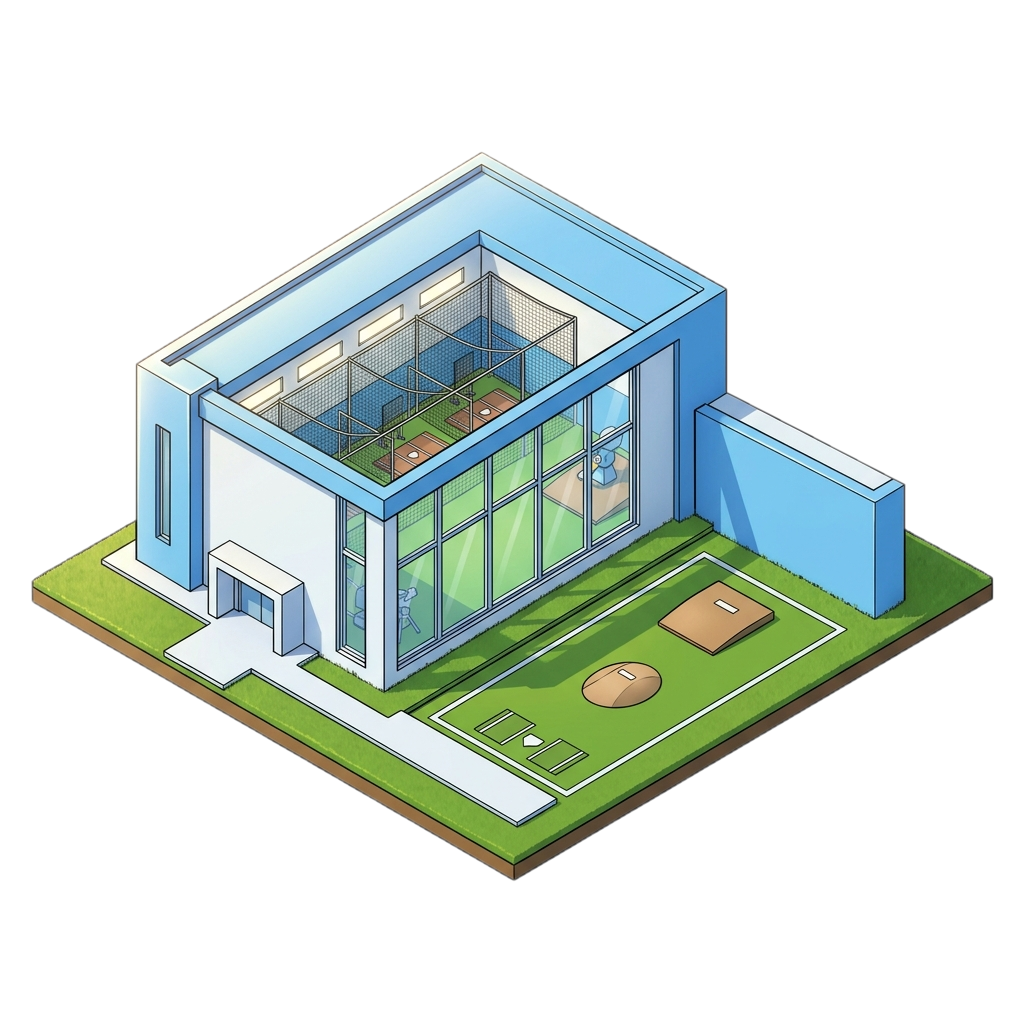
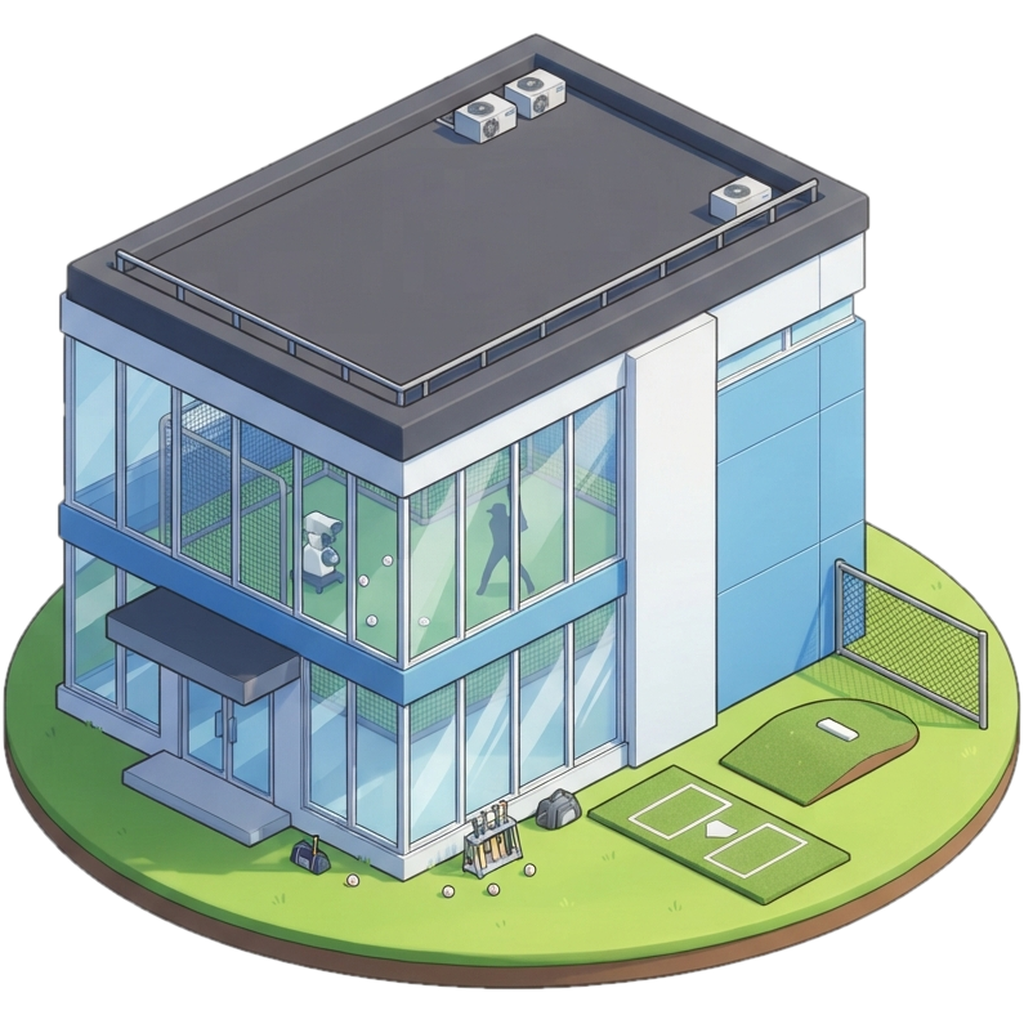
Add dirt roads to the home town, last pitcher portraits and medal
Roads run down the middle of the town and across each row at the
buildings' feet, drawn behind the tiles. Also adds pitcher_02-04,
a new training_center picture and the golden_glove medal.

Claude-Session: https://claude.ai/code/session_01MeSZy7EisbHBAgDNVY8jJD

diff --git a/unity/Assets/Scripts/TitleScreen.cs b/unity/Assets/Scripts/TitleScreen.cs
@@ -85,7 +85,7 @@ namespace BaseballGame
             string trainee = focus.IsEmpty ? "새 선수를 키워 보세요" : $"{focus.Career.Me.Name} · {focus.Career.Me.Age}세 · {focus.Career.MyTeam.Name}";
 
             // The training centre is where the game is, so it stands alone and biggest.
-            BuildingTile(Row(town, 560), new Building
+            BuildingTile(Row(town, 560, crossRoad: false), new Building
             {
                 Id = "training_center", Name = "트레이닝 센터", Status = trainee,
                 Body = focus.IsEmpty ? new Color(0.3f, 0.5f, 0.85f) : UiKit.TeamColor(focus.Career.MyTeam.Name), Roof = new Color(0.92f, 0.94f, 0.98f),
@@ -119,18 +119,54 @@ namespace BaseballGame
             };
             for (int i = 0; i < buildings.Length; i += 2)
             {
-                var row = Row(town, 420);
+                var row = Row(town, 420, last: i + 2 >= buildings.Length);
                 BuildingTile(row, buildings[i]);
                 if (i + 1 < buildings.Length) BuildingTile(row, buildings[i + 1]);
             }
         }
 
-        static RectTransform Row(RectTransform town, float height)
+        static RectTransform Row(RectTransform town, float height, bool crossRoad = true, bool last = false)
         {
             var row = UiKit.Empty(town, "Row");
             UiKit.Height(row, height);
             UiKit.Row(row, 20);
+            Roads(row, crossRoad, last);
             return row;
+        }
+
+        static readonly Color RoadEdge = new Color(0.44f, 0.36f, 0.26f, 0.95f);
+        static readonly Color RoadFill = new Color(0.72f, 0.6f, 0.42f, 0.95f);
+
+        /// <summary>
+        /// Dirt roads behind a row of buildings: one down the middle of the town that runs on into
+        /// the next row, and one across the row at the buildings' feet so each door meets it.
+        /// Added before the tiles so the buildings stand on top.
+        /// </summary>
+        static void Roads(RectTransform row, bool crossRoad, bool last)
+        {
+            const float width = 46, edge = 6, gap = 26; // gap = the town's row spacing
+            // Down the middle: from the row's top (or from the big building's feet) to the next row.
+            RoadPiece(row, "RoadDown", new Vector2(0.5f, 0f), new Vector2(0.5f, crossRoad ? 1f : 0.25f),
+                new Vector2(-width / 2, last ? 0.29f * 420 : -gap), new Vector2(width / 2, 0), edge);
+            if (crossRoad)
+                RoadPiece(row, "RoadAcross", new Vector2(0.04f, 0.29f), new Vector2(0.96f, 0.29f),
+                    new Vector2(0, -width / 2), new Vector2(0, width / 2), edge);
+        }
+
+        static void RoadPiece(RectTransform row, string name, Vector2 min, Vector2 max, Vector2 offMin, Vector2 offMax, float edge)
+        {
+            var outer = UiKit.Panel(row, name, RoadEdge);
+            outer.gameObject.AddComponent<LayoutElement>().ignoreLayout = true;
+            outer.anchorMin = min;
+            outer.anchorMax = max;
+            outer.offsetMin = offMin;
+            outer.offsetMax = offMax;
+            outer.GetComponent<Image>().raycastTarget = false;
+            var inner = UiKit.Panel(outer, "Fill", RoadFill);
+            UiKit.Stretch(inner);
+            inner.offsetMin = new Vector2(edge, edge);
+            inner.offsetMax = new Vector2(-edge, -edge);
+            inner.GetComponent<Image>().raycastTarget = false;
         }
 
         // ---------- Home pieces ----------
